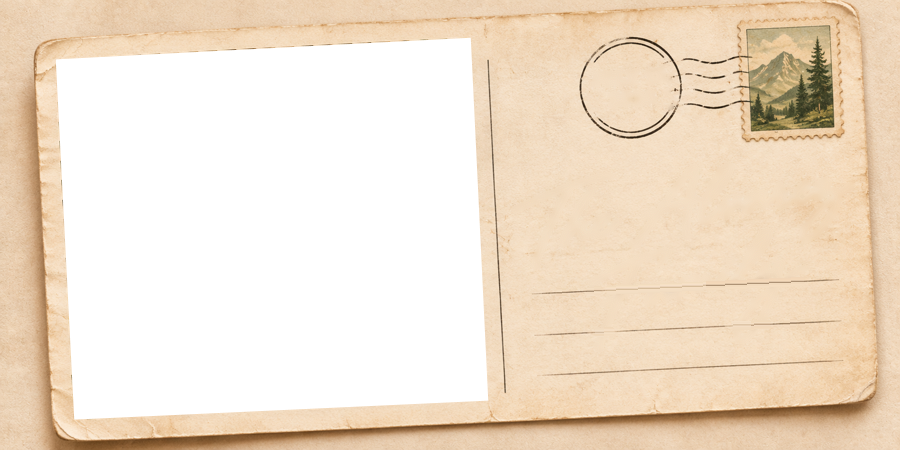
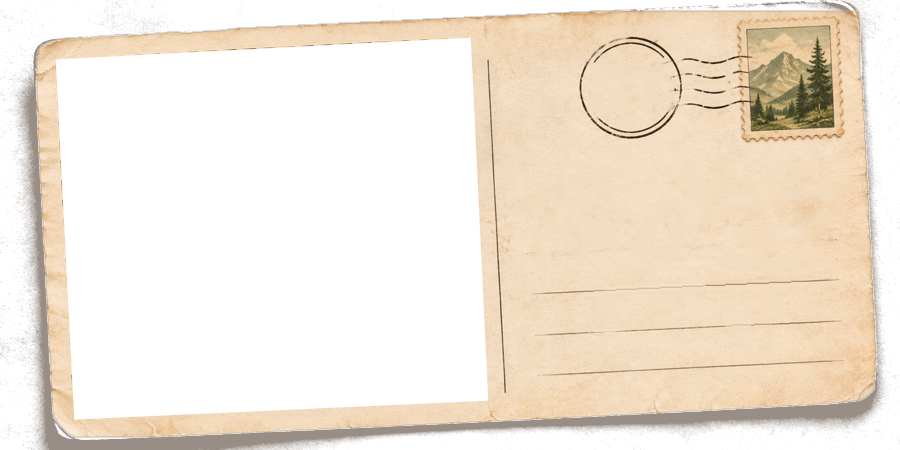
Polaroid layout uses the mockup picture with photos behind it; transparent ticket, postcard and film strip covers; masonry, grid and rows proportion fixes
Claude-Session: https://claude.ai/code/session_01Bhf7YP6LJNB8XwLixJ2STd

Changed region(s): [[0.0, 0.0, 1.0, 1.0]]

diff --git a/app/g/[token]/page.tsx b/app/g/[token]/page.tsx
@@ -399,7 +399,7 @@ export default function GalleryViewPage() {
             alt={p.filename ?? ''}
             loading="lazy"
             onClick={() => setOpenIndex(i)}
-            className={uniform ? 'aspect-[7/8] w-full cursor-zoom-in object-cover' : 'w-full cursor-zoom-in'}
+            className={uniform ? 'aspect-[5/6] w-full cursor-zoom-in object-cover' : 'w-full cursor-zoom-in'}
             style={!uniform && p.width && p.height ? { aspectRatio: `${p.width} / ${p.height}` } : undefined}
           />
         )}
@@ -457,7 +457,7 @@ export default function GalleryViewPage() {
         return <div className="mx-auto grid grid-cols-2 md:grid-cols-3 lg:grid-cols-4" style={{ gap: look.gap, maxWidth: 'min(100%, 1280px)' }}>{list.map((p, i) => tile(p, i, { ratio: 1.14 }))}</div>
       case 'rows': {
         const per = typeof window !== 'undefined' && window.innerWidth < 640 ? 2 : 4
-        const cl = (p: (typeof list)[number]) => Math.min(1.3, Math.max(0.7, arOf(p)))
+        const cl = (p: (typeof list)[number]) => Math.min(1.0, Math.max(0.7, arOf(p)))
         const rowsArr: (typeof list)[] = []
         for (let k = 0; k < list.length; k += per) rowsArr.push(list.slice(k, k + per))
         return (
@@ -502,25 +502,38 @@ export default function GalleryViewPage() {
           </div>
         )
       }
-      case 'polaroid':
+      case 'polaroid': {
+        const WIN = [[3.808,1.526,22.361,16.881,-2.64],[27.202,1.934,22.052,17.205,4.4],[51.401,1.835,21.892,16.707,-4.76],[74.403,1.589,22.195,16.876,2.86],[2.749,23.177,22.688,16.88,2.39],[27.27,23.037,20.827,16.559,-2.1],[49.974,23.689,22.082,16.953,1.85],[73.954,22.884,22.799,16.871,-4.18],[3.285,44.205,22.016,14.927,3.98],[27.279,43.691,21.362,15.463,-2.86],[50.368,44.393,21.881,14.694,1.22],[75.206,42.466,21.4,16.398,-2.01],[3.517,63.052,20.825,15.373,-2.49],[26.657,61.997,21.57,15.976,1.77],[51.147,63.044,22.715,15.643,-1.55],[75.567,62.849,20.937,15.291,1.85],[3.017,82.375,20.283,14.145,-3.81],[26.601,81.618,21.427,14.682,-2.05],[51.237,82.592,22.141,14.147,3.07],[75.539,82.235,21.264,14.285,-2.12]]
+        const ENDS = [25.2, 46.6, 67.4, 86.6, 100]
+        const chunks: (typeof list)[] = []
+        for (let k = 0; k < list.length; k += 20) chunks.push(list.slice(k, k + 20))
         return (
-          <div className="flex flex-wrap justify-center" style={{ gap: 'clamp(4px, 1cqw, 16px)', containerType: 'inline-size' }}>
-            {list.map((p, i) => (
-              <Fragment key={p.id}>
-                {momentHead(p, i)}
-                <div data-gk="photos" className="group relative w-[46%] md:w-[23.5%]" style={{ background: '#fff', padding: 'clamp(6px, 1.05cqw, 20px) clamp(6px, 1.05cqw, 20px) clamp(24px, 4.8cqw, 80px)', boxShadow: '0 6px 18px rgba(0,0,0,.18)', transform: `rotate(${[-2, 1.5, -1, 2][i % 4]}deg)`, borderRadius: Math.min(look.radius, 4) }}>
-                  <div className="relative" style={{ aspectRatio: '10 / 13', background: pal.line }}>
-                    {p.thumb && (
-                      // eslint-disable-next-line @next/next/no-img-element
-                      <img src={p.thumb} alt={p.filename ?? ''} loading="lazy" onClick={() => setOpenIndex(i)} className="absolute inset-0 h-full w-full cursor-zoom-in object-cover" />
-                    )}
-                  </div>
-                  {heartBtn(p)}
+          <div className="mx-auto w-full max-w-[1100px]">
+            {chunks.map((chunk, ci) => {
+              const rowsUsed = Math.ceil(chunk.length / 4)
+              const end = ENDS[rowsUsed - 1]
+              return (
+                <div key={ci} className="relative w-full overflow-hidden" style={{ aspectRatio: `569 / ${(933 * end) / 100}` }}>
+                  {WIN.slice(0, rowsUsed * 4).map((w, wi) => {
+                    const p = chunk[wi]
+                    return (
+                      <div key={wi} data-gk={p ? 'photos' : undefined} className="group absolute z-10 overflow-hidden" style={{ left: `${w[0]}%`, top: `${(w[1] / end) * 100}%`, width: `${w[2]}%`, height: `${(w[3] / end) * 100}%`, transform: `rotate(${w[4]}deg)`, background: pal.line }}>
+                        {p && p.thumb && (
+                          // eslint-disable-next-line @next/next/no-img-element
+                          <img src={p.thumb} alt={p.filename ?? ''} loading="lazy" onClick={() => setOpenIndex(ci * 20 + wi)} className="absolute inset-0 h-full w-full cursor-zoom-in object-cover" />
+                        )}
+                        {p && heartBtn(p)}
+                      </div>
+                    )
+                  })}
+                  {/* eslint-disable-next-line @next/next/no-img-element */}
+                  <img src="/gallery-layout/polaroid-art.png" alt="" aria-hidden className="pointer-events-none absolute left-0 top-0 z-20 w-full select-none" style={{ height: `${(100 / end) * 100}%` }} />
                 </div>
-              </Fragment>
-            ))}
+              )
+            })}
           </div>
         )
+      }
       case 'story':
         return <div className="mx-auto flex max-w-[920px] flex-col" style={{ gap: look.gap }}>{list.map((p, i) => tile(p, i, { ratio: 2.3 }))}</div>
       case 'stagger':
@@ -552,7 +565,7 @@ export default function GalleryViewPage() {
         )
       }
       default:
-        return <div className="columns-2 md:columns-3 lg:columns-4" style={{ columnGap: look.gap }}>{list.map((p, i) => renderItem(p, i, false))}</div>
+        return <div className="columns-2 md:columns-3 lg:columns-4" style={{ columnGap: look.gap }}>{list.map((p, i) => tile(p, i, { ratio: Math.min(1.2, Math.max(0.75, arOf(p))), wrap: 'break-inside-avoid', style: { marginBottom: look.gap } }))}</div>
     }
   })()
   const pill = (on: boolean): CSSProperties => (on ? { background: pal.accent, color: pal.onAccent, border: '1px solid transparent' } : { border: `1px solid ${pal.line}`, color: pal.ink })
